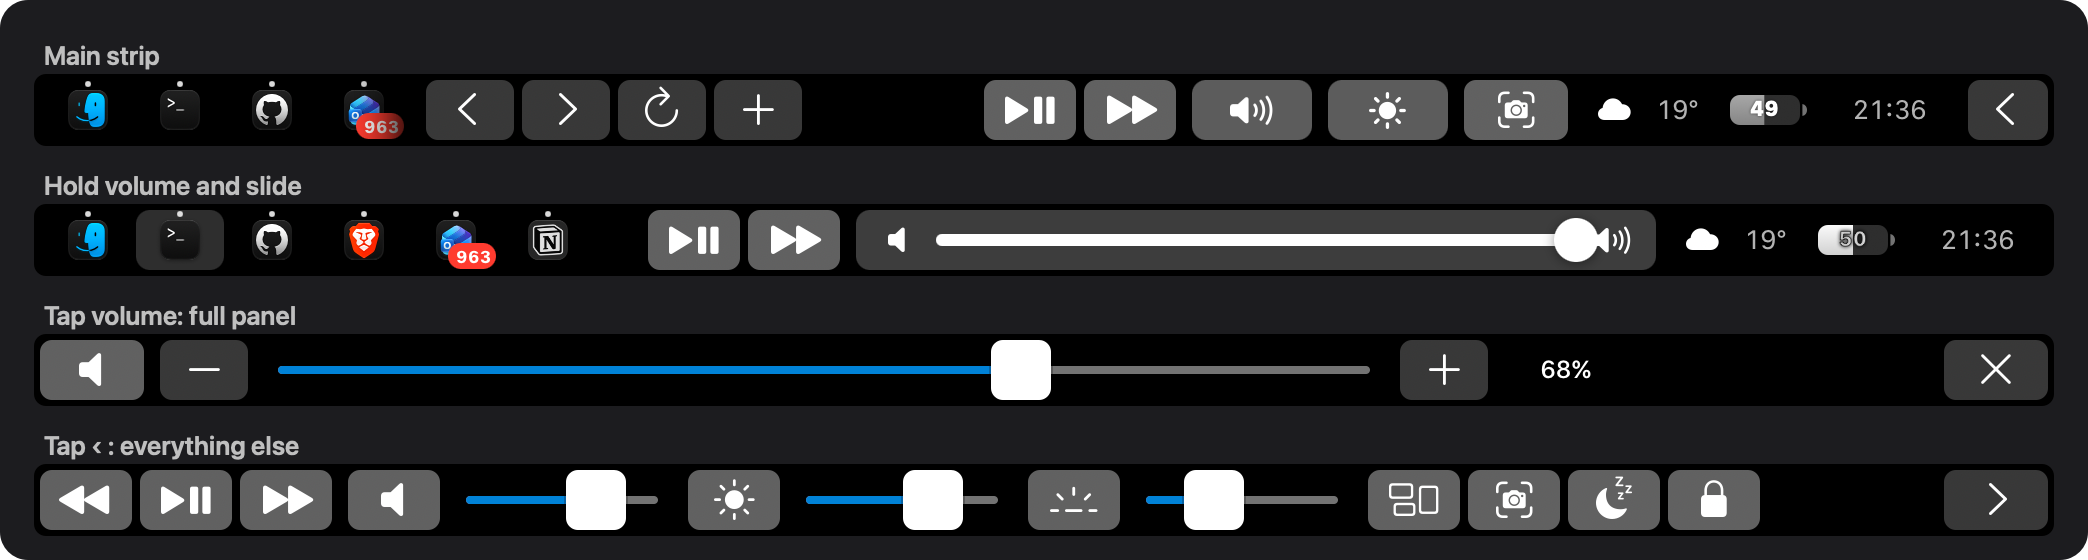
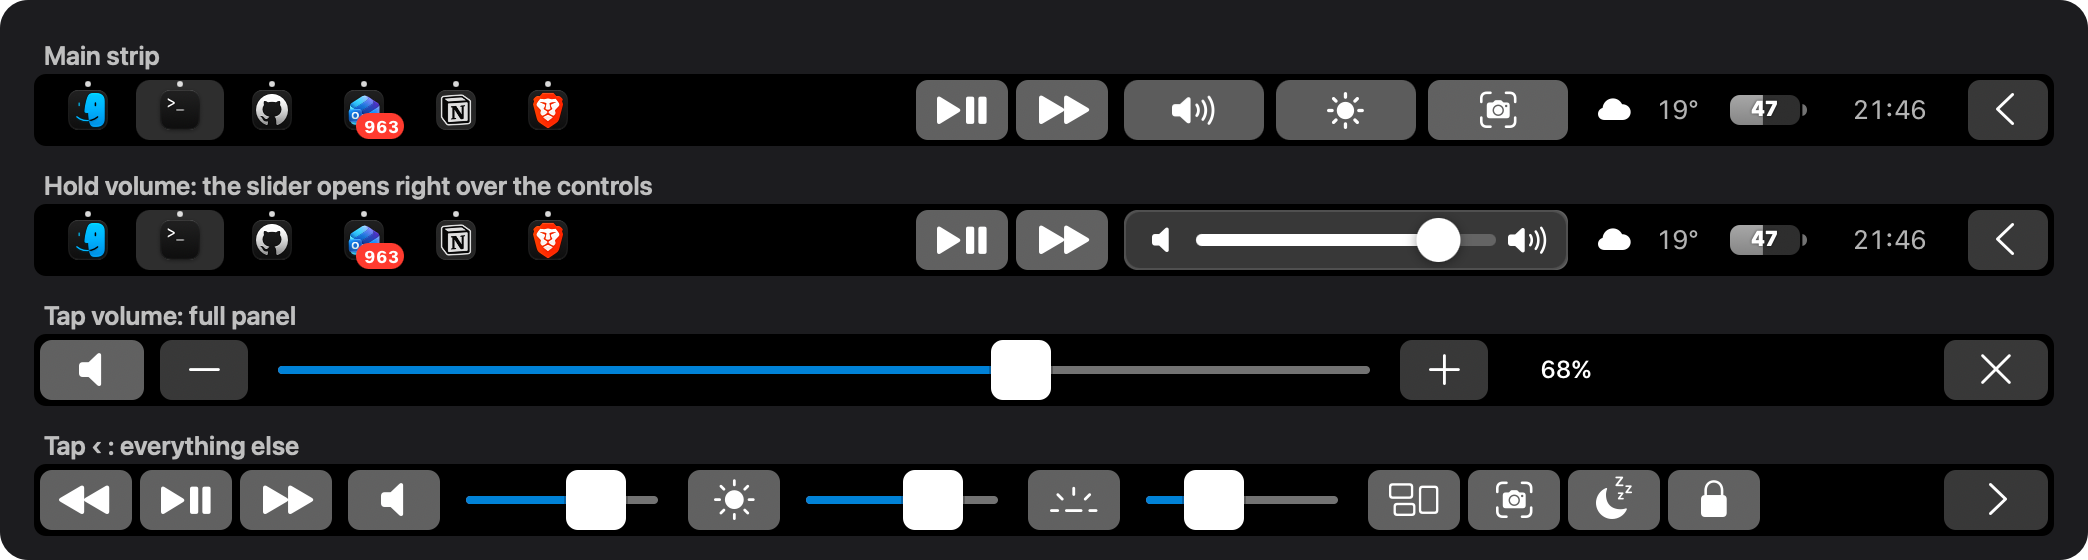
Open the hold-slider over the control group instead of pushing other items

diff --git a/Sources/Extras.swift b/Sources/Extras.swift
@@ -4,22 +4,27 @@ import AppKit
 // MARK: - Press and slide
 
 /// A key for volume or brightness, modelled on Pock's sliders. A quick tap opens the full
-/// panel. Holding the key (or starting to move) opens a wide slider in place, with the
-/// quiet and loud icons at its ends; the knob follows the finger one to one, and the
-/// slider folds back shortly after the finger lifts.
+/// panel. Holding the key opens a slider right on top of it, centred on the key, without
+/// moving anything else on the strip; the knob follows the finger one to one and the
+/// slider folds back into the key shortly after the finger lifts.
 final class HoldSlideKey: NSView {
     private let symbol: () -> String
     private let get: () -> Float
     private let set: (Float) -> Void
     private let onTap: () -> Void
 
+    private let background = CALayer()
     private let icon = NSImageView()
+    // the slider that floats over the key
+    private let overlay = NSView()
     private let minIcon = NSImageView()
     private let maxIcon = NSImageView()
     private let track = CALayer()
     private let trackFill = CALayer()
     private let knob = CALayer()
-    private var width: NSLayoutConstraint!
+
+    /// The view the slider spreads over (the whole control group). Falls back to the key.
+    weak var overlayHost: NSView?
 
     private var startX: CGFloat = 0
     private var startValue: Float = 0
@@ -29,26 +34,38 @@ final class HoldSlideKey: NSView {
     private var refresh: Timer?
     private var closeWork: DispatchWorkItem?
 
-    private let restWidth: CGFloat = 60
-    private let openWidth: CGFloat = 400
-    private let inset: CGFloat = 40          // room for the end icons
-    private var trackWidth: CGFloat { openWidth - 2 * inset }
+    private let keyWidth: CGFloat = 70
+    private let inset: CGFloat = 36
+    private var sliderWidth: CGFloat { overlay.bounds.width > 0 ? overlay.bounds.width : 240 }
+    private var trackWidth: CGFloat { max(40, sliderWidth - 2 * inset) }
 
-    /// An ease-out with a soft landing; reads as smooth on the Touch Bar's 60 Hz.
     static let curve = CAMediaTimingFunction(controlPoints: 0.22, 1.0, 0.36, 1.0)
 
     init(symbol: @escaping () -> String, minSymbol: String, maxSymbol: String,
          get: @escaping () -> Float, set: @escaping (Float) -> Void, onTap: @escaping () -> Void) {
         self.symbol = symbol; self.get = get; self.set = set; self.onTap = onTap
-        super.init(frame: NSRect(x: 0, y: 0, width: 60, height: 30))
+        super.init(frame: NSRect(x: 0, y: 0, width: 70, height: 30))
         allowedTouchTypes = [.direct]
         wantsLayer = true
-        layer?.backgroundColor = NSColor(white: 0.36, alpha: 1).cgColor
-        layer?.cornerRadius = 7
-        layer?.masksToBounds = true
+        layer?.masksToBounds = false                    // the slider is drawn beyond the key
         translatesAutoresizingMaskIntoConstraints = false
-        width = widthAnchor.constraint(equalToConstant: restWidth); width.isActive = true
+        widthAnchor.constraint(equalToConstant: keyWidth).isActive = true
         heightAnchor.constraint(equalToConstant: 30).isActive = true
+
+        background.backgroundColor = NSColor(white: 0.36, alpha: 1).cgColor
+        background.cornerRadius = 7
+        layer?.addSublayer(background)
+
+        icon.imageScaling = .scaleProportionallyDown
+        addSubview(icon)
+
+        overlay.wantsLayer = true
+        overlay.layer?.backgroundColor = NSColor(white: 0.22, alpha: 1).cgColor
+        overlay.layer?.cornerRadius = 8
+        overlay.layer?.borderWidth = 1
+        overlay.layer?.borderColor = NSColor(white: 1, alpha: 0.12).cgColor
+        overlay.alphaValue = 0
+        overlay.isHidden = true
 
         track.backgroundColor = NSColor(white: 1, alpha: 0.22).cgColor
         track.cornerRadius = 3
@@ -57,13 +74,13 @@ final class HoldSlideKey: NSView {
         knob.backgroundColor = NSColor.white.cgColor
         knob.cornerRadius = 11
         knob.shadowOpacity = 0.4; knob.shadowRadius = 3; knob.shadowOffset = CGSize(width: 0, height: -1)
-        for l in [track, trackFill, knob] { l.opacity = 0; layer?.addSublayer(l) }
-
-        for (v, name) in [(icon, ""), (minIcon, minSymbol), (maxIcon, maxSymbol)] {
+        for l in [track, trackFill, knob] { overlay.layer?.addSublayer(l) }
+        for (v, name) in [(minIcon, minSymbol), (maxIcon, maxSymbol)] {
             v.imageScaling = .scaleProportionallyDown
-            if !name.isEmpty { v.image = Self.white(name, size: 14); v.alphaValue = 0 }
-            addSubview(v)
+            v.image = Self.white(name, size: 14)
+            overlay.addSubview(v)
         }
+
         updateIcon()
         refresh = Timer.scheduledTimer(withTimeInterval: 1.5, repeats: true) { [weak self] _ in
             guard let self, !self.sliding else { return }
@@ -81,43 +98,63 @@ final class HoldSlideKey: NSView {
 
     override func layout() {
         super.layout()
-        let w = bounds.width
-        icon.frame = NSRect(x: (w - 26) / 2, y: 3, width: 26, height: 24)
-        minIcon.frame = NSRect(x: 10, y: 5, width: 22, height: 20)
-        maxIcon.frame = NSRect(x: w - 34, y: 5, width: 24, height: 20)
+        CATransaction.begin(); CATransaction.setDisableActions(true)
+        background.frame = bounds
+        CATransaction.commit()
+        icon.frame = NSRect(x: (bounds.width - 26) / 2, y: 3, width: 26, height: 24)
+    }
+
+    private func layoutOverlay() {
+        let host = overlayHost ?? self
+        if overlay.superview !== host { host.addSubview(overlay, positioned: .above, relativeTo: nil) }
+        overlay.frame = host.bounds
+        minIcon.frame = NSRect(x: 8, y: 5, width: 22, height: 20)
+        maxIcon.frame = NSRect(x: overlay.bounds.width - 32, y: 5, width: 24, height: 20)
         placeTrack()
     }
 
     private func placeTrack() {
         CATransaction.begin()
         CATransaction.setDisableActions(true)        // the knob sticks to the finger, no lag
-        let tw = max(0, bounds.width - 2 * inset)
         let y = bounds.midY - 3
-        track.frame = CGRect(x: inset, y: y, width: tw, height: 6)
-        trackFill.frame = CGRect(x: inset, y: y, width: tw * CGFloat(value), height: 6)
-        knob.frame = CGRect(x: inset + tw * CGFloat(value) - 11, y: bounds.midY - 11, width: 22, height: 22)
+        track.frame = CGRect(x: inset, y: y, width: trackWidth, height: 6)
+        trackFill.frame = CGRect(x: inset, y: y, width: trackWidth * CGFloat(value), height: 6)
+        knob.frame = CGRect(x: inset + trackWidth * CGFloat(value) - 11, y: bounds.midY - 11, width: 22, height: 22)
         CATransaction.commit()
     }
 
     private func setOpen(_ open: Bool) {
         sliding = open
         closeWork?.cancel()
-        NSAnimationContext.runAnimationGroup { ctx in
-            ctx.duration = open ? 0.34 : 0.3
+        guard let ol = overlay.layer else { return }
+        if open { layoutOverlay(); overlay.isHidden = false }
+        // Grow out of the pressed key, then settle over the whole group.
+        let host = overlay.superview ?? self
+        let keyCenter = convert(NSPoint(x: bounds.midX, y: bounds.midY), to: host)
+        let scale = CATransform3DMakeScale(bounds.width / max(1, overlay.bounds.width), 1, 1)
+        let shift = CATransform3DMakeTranslation(keyCenter.x - overlay.frame.midX, 0, 0)
+        let from = CATransform3DConcat(scale, shift)
+        let anim = CABasicAnimation(keyPath: "transform")
+        anim.fromValue = open ? from : CATransform3DIdentity
+        anim.toValue = open ? CATransform3DIdentity : from
+        anim.duration = open ? 0.32 : 0.26
+        anim.timingFunction = Self.curve
+        ol.anchorPoint = CGPoint(x: 0.5, y: 0.5)
+        ol.position = CGPoint(x: overlay.frame.midX, y: overlay.frame.midY)
+        ol.transform = open ? CATransform3DIdentity : from
+        ol.add(anim, forKey: "grow")
+        NSAnimationContext.runAnimationGroup({ ctx in
+            ctx.duration = open ? 0.22 : 0.26
             ctx.timingFunction = Self.curve
-            ctx.allowsImplicitAnimation = true
-            width.animator().constant = open ? openWidth : restWidth
+            overlay.animator().alphaValue = open ? 1 : 0
             icon.animator().alphaValue = open ? 0 : 1
-            minIcon.animator().alphaValue = open ? 1 : 0
-            maxIcon.animator().alphaValue = open ? 1 : 0
-            superview?.layoutSubtreeIfNeeded()
-            layoutSubtreeIfNeeded()
-        }
-        CATransaction.begin()
-        CATransaction.setAnimationDuration(open ? 0.3 : 0.18)
-        CATransaction.setAnimationTimingFunction(Self.curve)
-        for l in [track, trackFill, knob] { l.opacity = open ? 1 : 0 }
-        layer?.backgroundColor = NSColor(white: open ? 0.24 : 0.36, alpha: 1).cgColor
+        }, completionHandler: { [weak self] in
+            guard let self, !self.sliding else { return }
+            self.overlay.isHidden = true
+            self.overlay.layer?.transform = CATransform3DIdentity
+        })
+        CATransaction.begin(); CATransaction.setAnimationDuration(0.2)
+        background.backgroundColor = NSColor(white: 0.36, alpha: 1).cgColor
         CATransaction.commit()
     }
 
@@ -128,8 +165,8 @@ final class HoldSlideKey: NSView {
         guard !sliding else { return }
         holdTimer?.invalidate()
         value = startValue
+        layoutOverlay()
         setOpen(true)
-        placeTrack()
     }
 
     override func touchesBegan(with event: NSEvent) {
@@ -139,7 +176,7 @@ final class HoldSlideKey: NSView {
         startValue = sliding ? value : get()
         if !sliding {
             CATransaction.begin(); CATransaction.setAnimationDuration(0.1)
-            layer?.backgroundColor = NSColor(white: 0.46, alpha: 1).cgColor
+            background.backgroundColor = NSColor(white: 0.48, alpha: 1).cgColor
             CATransaction.commit()
             holdTimer?.invalidate()
             holdTimer = Timer.scheduledTimer(withTimeInterval: 0.2, repeats: false) { [weak self] _ in self?.beginSlide() }
@@ -151,10 +188,8 @@ final class HoldSlideKey: NSView {
         let dx = t.location(in: self).x - startX
         if !sliding && abs(dx) > 4 { beginSlide() }
         guard sliding else { return }
-        // 1:1 with the track, like a real slider.
-        let v = max(0, min(1, startValue + Float(dx / trackWidth)))
-        value = v
-        set(v)
+        value = max(0, min(1, startValue + Float(dx / trackWidth)))
+        set(value)
         placeTrack()
     }
 
@@ -166,7 +201,7 @@ final class HoldSlideKey: NSView {
             DispatchQueue.main.asyncAfter(deadline: .now() + 0.9, execute: w)
         } else {
             CATransaction.begin(); CATransaction.setAnimationDuration(0.2)
-            layer?.backgroundColor = NSColor(white: 0.36, alpha: 1).cgColor
+            background.backgroundColor = NSColor(white: 0.36, alpha: 1).cgColor
             CATransaction.commit()
             onTap()
         }
@@ -175,7 +210,7 @@ final class HoldSlideKey: NSView {
     override func touchesCancelled(with event: NSEvent) {
         holdTimer?.invalidate()
         if sliding { setOpen(false) }
-        layer?.backgroundColor = NSColor(white: 0.36, alpha: 1).cgColor
+        background.backgroundColor = NSColor(white: 0.36, alpha: 1).cgColor
     }
 }
 

diff --git a/Sources/ControlsWidget.swift b/Sources/ControlsWidget.swift
@@ -152,6 +152,8 @@ final class QuickControls: NSObject {
     static let brightnessID = NSTouchBarItem.Identifier("local.serit.brightness")
     static let screenshotID = NSTouchBarItem.Identifier("local.serit.screenshot")
     static let moreID = NSTouchBarItem.Identifier("local.serit.more")
+    /// Volume, brightness and screenshot live in one item so the hold-slider can spread over all three.
+    static let clusterID = NSTouchBarItem.Identifier("local.serit.controls")
 
     private weak var host: TouchBarHost?
     private weak var volumeKey: HoldSlideKey?
@@ -185,6 +187,25 @@ final class QuickControls: NSObject {
             return TB.item(id.rawValue, HoldSlideKey(symbol: { DisplayBrightness.symbol }, minSymbol: "sun.min.fill", maxSymbol: "sun.max.fill", get: { DisplayBrightness.level },
                                                      set: { DisplayBrightness.level = $0 },
                                                      onTap: { [weak self] in self?.openBrightness() }))
+        case Self.clusterID:
+            let s = Settings.shared
+            let cluster = NSView()
+            var views: [NSView] = []
+            var keys: [HoldSlideKey] = []
+            if s.showVolume, let v = (item(for: Self.volumeID) as? NSCustomTouchBarItem)?.view as? HoldSlideKey { views.append(v); keys.append(v) }
+            if s.showBrightness, let b = (item(for: Self.brightnessID) as? NSCustomTouchBarItem)?.view as? HoldSlideKey { views.append(b); keys.append(b) }
+            if s.showScreenshot { views.append(TB.button("camera.viewfinder", width: 70, target: self, action: #selector(screenshot))) }
+            guard !views.isEmpty else { return nil }
+            let stack = NSStackView(views: views); stack.spacing = 6
+            stack.translatesAutoresizingMaskIntoConstraints = false
+            cluster.addSubview(stack)
+            NSLayoutConstraint.activate([
+                stack.leadingAnchor.constraint(equalTo: cluster.leadingAnchor), stack.trailingAnchor.constraint(equalTo: cluster.trailingAnchor),
+                stack.topAnchor.constraint(equalTo: cluster.topAnchor), stack.bottomAnchor.constraint(equalTo: cluster.bottomAnchor),
+            ])
+            cluster.wantsLayer = true
+            keys.forEach { $0.overlayHost = cluster }
+            return TB.item(id.rawValue, cluster)
         case Self.screenshotID:
             return TB.item(id.rawValue, TB.button("camera.viewfinder", target: self, action: #selector(screenshot)))
         case Self.moreID:

diff --git a/Sources/main.swift b/Sources/main.swift
@@ -47,9 +47,7 @@ final class AppDelegate: NSObject, NSApplicationDelegate, NSTouchBarDelegate, NS
         if s.showAppKeys { appKeys = AppKeys(); ids.append(AppKeys.id) }
         ids.append(.flexibleSpace)
         if s.showMedia { media = MediaWidget(); ids.append(MediaWidget.id) }
-        if s.showVolume { ids.append(QuickControls.volumeID) }
-        if s.showBrightness { ids.append(QuickControls.brightnessID) }
-        if s.showScreenshot { ids.append(QuickControls.screenshotID) }
+        if s.showVolume || s.showBrightness || s.showScreenshot { ids.append(QuickControls.clusterID) }
         if s.showStatus { status = StatusWidget(); ids.append(StatusWidget.id) }
         ids.append(QuickControls.moreID)
         bar.defaultItemIdentifiers = ids
@@ -57,9 +55,9 @@ final class AppDelegate: NSObject, NSApplicationDelegate, NSTouchBarDelegate, NS
         let total: CGFloat = TouchBarHost.useFullWidth ? 1000 : 680
         var others: CGFloat = 0
         if s.showMedia { others += 260 }
-        if s.showVolume { others += 60 }
-        if s.showBrightness { others += 60 }
-        if s.showScreenshot { others += 60 }
+        if s.showVolume { others += 76 }
+        if s.showBrightness { others += 76 }
+        if s.showScreenshot { others += 76 }
         if s.showStatus { others += 215 }
         others += 50   // the ‹ key
         DockWidget.maxWidth = max(140, total - others)

diff --git a/README.md b/README.md
@@ -19,7 +19,7 @@ The script builds Şerit on your Mac (it needs Apple's Command Line Tools), inst
 
 - **Dock.** Your open apps with a dot for running and a highlight for the active one, plus notification badges. Tap to switch, tap the front app to hide it. Pinned Dock apps can be shown too.
 - **Now playing.** Play/pause and next work with any player, because they send real media keys. The song title shows for Spotify, Music, and YouTube Music or YouTube in Brave, Chrome, Safari and Arc.
-- **Volume and brightness.** Hold the key and it opens into a wide slider in place, like Pock: the knob follows your finger one to one, and the slider folds back shortly after you lift. A quick tap opens the full slider with − and + steps and the exact percentage, which closes by itself after a few seconds.
+- **Volume and brightness.** Hold the key and a slider opens right over the controls, like Pock, without moving anything else on the strip. The knob follows your finger one to one, and the slider folds back into the keys shortly after you lift. A quick tap opens the full slider with − and + steps and the exact percentage, which closes by itself after a few seconds.
 - **Screenshot.** Opens the same toolbar as ⇧⌘5.
 - **Weather, battery, clock.** Weather for where you are (city level, Open-Meteo, no API key), the battery percentage inside the battery icon, and the time.
 - **Keys for the app in front.** Back, forward, reload and new tab when a browser is in front. Run, stop, terminal and command palette in VS Code, Cursor and Windsurf.
